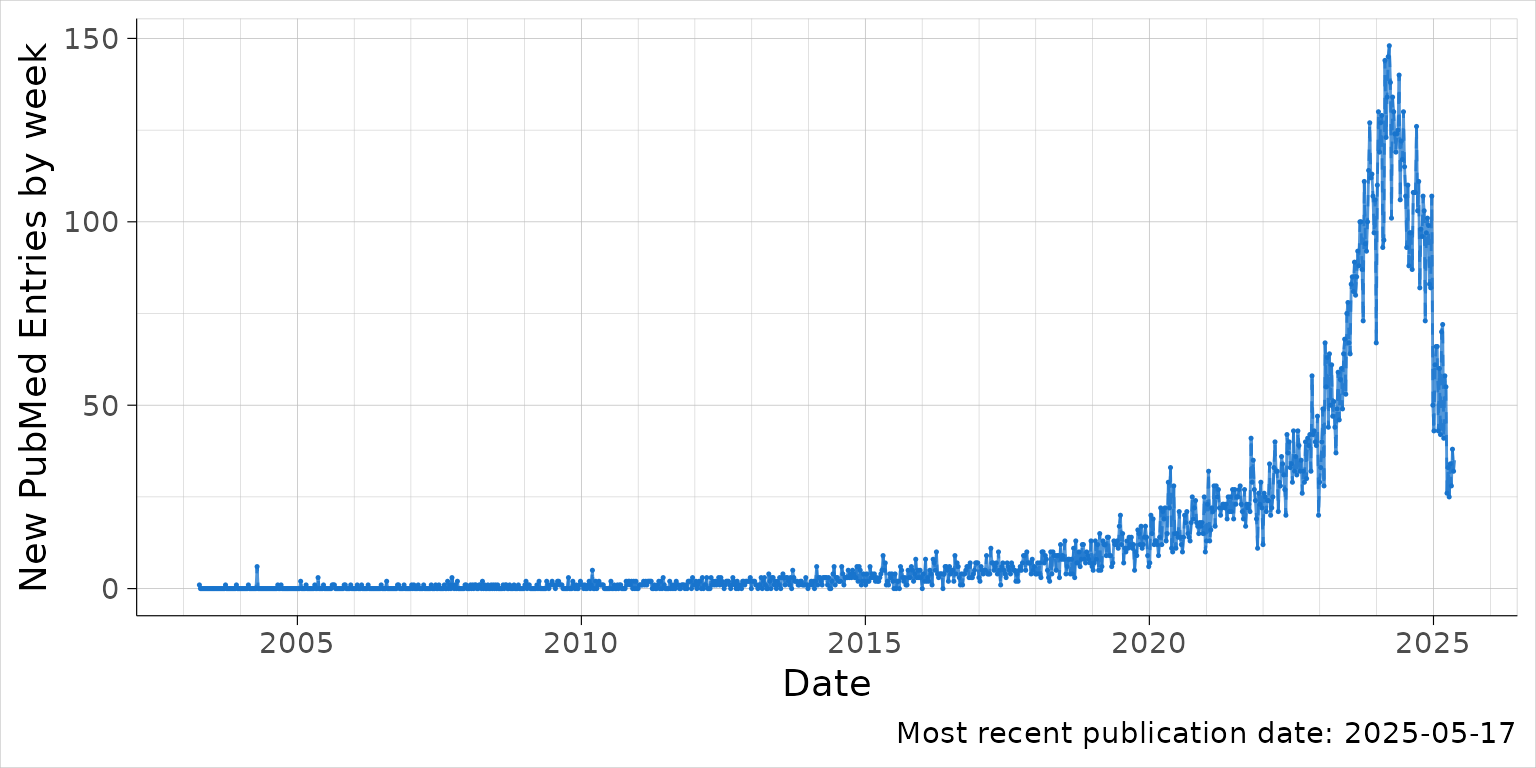
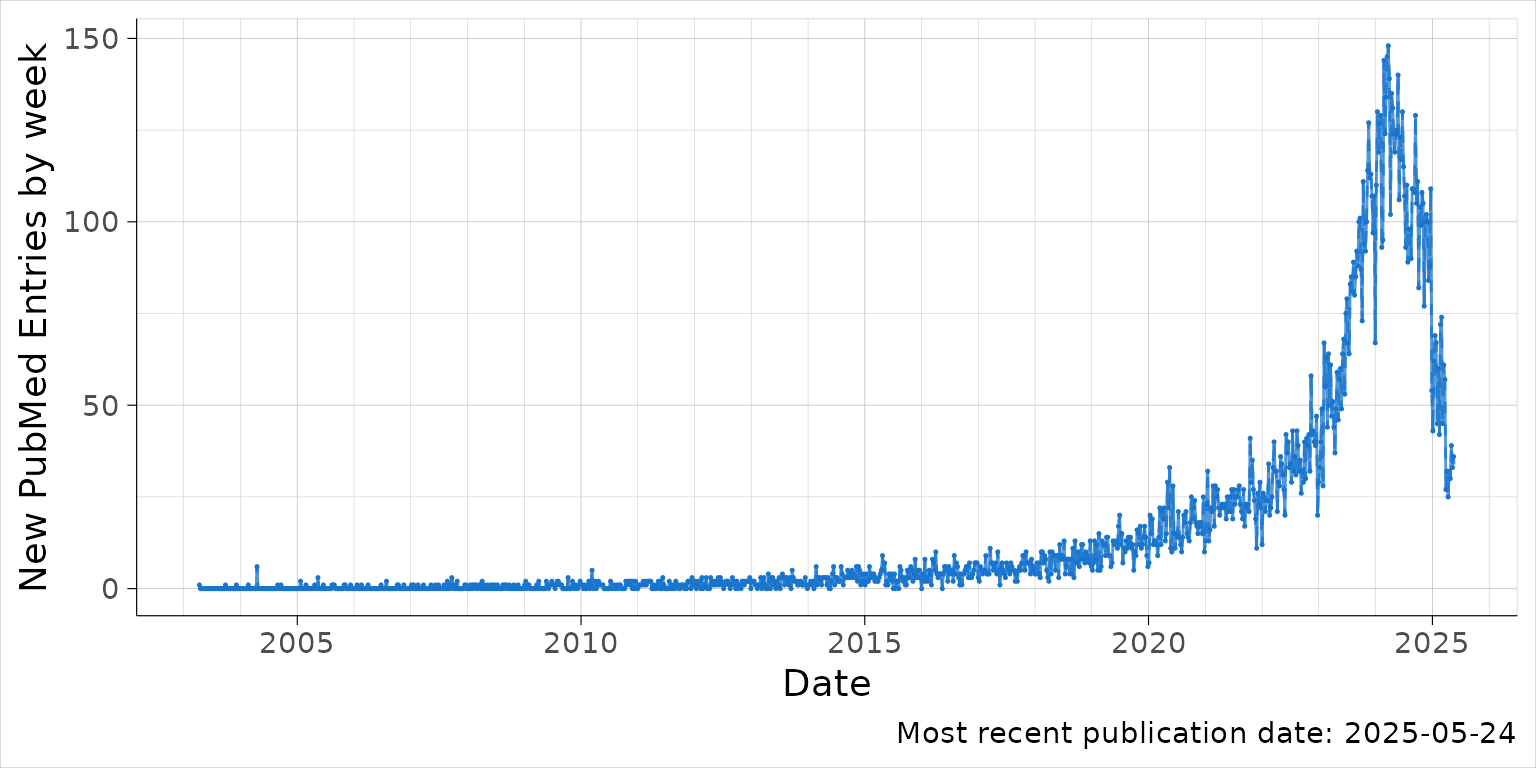
Deploying to gh-pages from @ explodecomputer/PubmedPlot@068eacdf5acdc66ea1c8a3d5640505ac4a8cb4ee 🚀

diff --git a/articles/mr.html b/articles/mr.html
@@ -183,7 +183,7 @@
 <span><span class="co">#&gt; Fetching records 2501 to 2979 </span></span>
 <span><span class="co">#&gt; Searching for year: 2024 </span></span>
 <span><span class="co">#&gt; Search term: "Mendelian randomisation" [tiab] OR "Mendelian randomization" [tiab] AND ("2024/01/01"[dp] : "2024/12/31"[dp]) </span></span>
-<span><span class="co">#&gt; Found 6436 articles matching the search term.</span></span>
+<span><span class="co">#&gt; Found 6435 articles matching the search term.</span></span>
 <span><span class="co">#&gt; Fetching records 1 to 500 </span></span>
 <span><span class="co">#&gt; Fetching records 501 to 1000 </span></span>
 <span><span class="co">#&gt; Fetching records 1001 to 1500 </span></span>
@@ -196,16 +196,16 @@
 <span><span class="co">#&gt; Fetching records 4501 to 5000 </span></span>
 <span><span class="co">#&gt; Fetching records 5001 to 5500 </span></span>
 <span><span class="co">#&gt; Fetching records 5501 to 6000 </span></span>
-<span><span class="co">#&gt; Fetching records 6001 to 6436 </span></span>
+<span><span class="co">#&gt; Fetching records 6001 to 6435 </span></span>
 <span><span class="co">#&gt; Searching for year: 2025 </span></span>
 <span><span class="co">#&gt; Search term: "Mendelian randomisation" [tiab] OR "Mendelian randomization" [tiab] AND ("2025/01/01"[dp] : "2025/12/31"[dp]) </span></span>
-<span><span class="co">#&gt; Found 2865 articles matching the search term.</span></span>
+<span><span class="co">#&gt; Found 2984 articles matching the search term.</span></span>
 <span><span class="co">#&gt; Fetching records 1 to 500 </span></span>
 <span><span class="co">#&gt; Fetching records 501 to 1000 </span></span>
 <span><span class="co">#&gt; Fetching records 1001 to 1500 </span></span>
 <span><span class="co">#&gt; Fetching records 1501 to 2000 </span></span>
 <span><span class="co">#&gt; Fetching records 2001 to 2500 </span></span>
-<span><span class="co">#&gt; Fetching records 2501 to 2865</span></span>
+<span><span class="co">#&gt; Fetching records 2501 to 2984</span></span>
 <span><span class="co"># write_json(a, "pubmed_abstracts.json", pretty=TRUE)</span></span>
 <span><span class="va">b</span> <span class="op">&lt;-</span> <span class="fu"><a href="../reference/group_by_time_interval.html">group_by_time_interval</a></span><span class="op">(</span><span class="va">a</span><span class="op">)</span></span>
 <span><span class="va">p</span> <span class="op">&lt;-</span> <span class="fu"><a href="../reference/plot_time_interval.html">plot_time_interval</a></span><span class="op">(</span><span class="va">b</span><span class="op">)</span></span></code></pre></div>
@@ -222,7 +222,7 @@
 </div>
 
 <div class="pkgdown-footer-right">
-  <p>Site built with <a href="https://pkgdown.r-lib.org/" class="external-link">pkgdown</a> 2.1.2.</p>
+  <p>Site built with <a href="https://pkgdown.r-lib.org/" class="external-link">pkgdown</a> 2.1.3.</p>
 </div>
 
     </footer>

diff --git a/authors.html b/authors.html
@@ -69,7 +69,7 @@ R package version 0.0.0.9000, <a href="https://explodecomputer.github.io/PubmedP
 </div>
 
 <div class="pkgdown-footer-right">
-  <p>Site built with <a href="https://pkgdown.r-lib.org/" class="external-link">pkgdown</a> 2.1.2.</p>
+  <p>Site built with <a href="https://pkgdown.r-lib.org/" class="external-link">pkgdown</a> 2.1.3.</p>
 </div>
 
     </footer></div>

diff --git a/reference/plot_time_interval.html b/reference/plot_time_interval.html
@@ -74,7 +74,7 @@ It uses ggplot2 to create a line plot of the number of publications over time.</
 </div>
 
 <div class="pkgdown-footer-right">
-  <p>Site built with <a href="https://pkgdown.r-lib.org/" class="external-link">pkgdown</a> 2.1.2.</p>
+  <p>Site built with <a href="https://pkgdown.r-lib.org/" class="external-link">pkgdown</a> 2.1.3.</p>
 </div>
 
     </footer></div>

diff --git a/reference/search_term_by_year.html b/reference/search_term_by_year.html
@@ -74,7 +74,7 @@ It splits the search into years to avoid hitting the NCBI server limits.</p>
 </div>
 
 <div class="pkgdown-footer-right">
-  <p>Site built with <a href="https://pkgdown.r-lib.org/" class="external-link">pkgdown</a> 2.1.2.</p>
+  <p>Site built with <a href="https://pkgdown.r-lib.org/" class="external-link">pkgdown</a> 2.1.3.</p>
 </div>
 
     </footer></div>

diff --git a/404.html b/404.html
@@ -66,7 +66,7 @@ Content not found. Please use links in the navbar.
 </div>
 
 <div class="pkgdown-footer-right">
-  <p>Site built with <a href="https://pkgdown.r-lib.org/" class="external-link">pkgdown</a> 2.1.2.</p>
+  <p>Site built with <a href="https://pkgdown.r-lib.org/" class="external-link">pkgdown</a> 2.1.3.</p>
 </div>
 
     </footer>

diff --git a/LICENSE-text.html b/LICENSE-text.html
@@ -47,7 +47,7 @@ COPYRIGHT HOLDER: Gibran Hemani
 </div>
 
 <div class="pkgdown-footer-right">
-  <p>Site built with <a href="https://pkgdown.r-lib.org/" class="external-link">pkgdown</a> 2.1.2.</p>
+  <p>Site built with <a href="https://pkgdown.r-lib.org/" class="external-link">pkgdown</a> 2.1.3.</p>
 </div>
 
     </footer></div>

diff --git a/LICENSE.html b/LICENSE.html
@@ -51,7 +51,7 @@
 </div>
 
 <div class="pkgdown-footer-right">
-  <p>Site built with <a href="https://pkgdown.r-lib.org/" class="external-link">pkgdown</a> 2.1.2.</p>
+  <p>Site built with <a href="https://pkgdown.r-lib.org/" class="external-link">pkgdown</a> 2.1.3.</p>
 </div>
 
     </footer></div>

diff --git a/articles/index.html b/articles/index.html
@@ -51,7 +51,7 @@
 </div>
 
 <div class="pkgdown-footer-right">
-  <p>Site built with <a href="https://pkgdown.r-lib.org/" class="external-link">pkgdown</a> 2.1.2.</p>
+  <p>Site built with <a href="https://pkgdown.r-lib.org/" class="external-link">pkgdown</a> 2.1.3.</p>
 </div>
 
     </footer></div>

diff --git a/reference/group_by_time_interval.html b/reference/group_by_time_interval.html
@@ -67,7 +67,7 @@
 </div>
 
 <div class="pkgdown-footer-right">
-  <p>Site built with <a href="https://pkgdown.r-lib.org/" class="external-link">pkgdown</a> 2.1.2.</p>
+  <p>Site built with <a href="https://pkgdown.r-lib.org/" class="external-link">pkgdown</a> 2.1.3.</p>
 </div>
 
     </footer></div>

diff --git a/reference/index.html b/reference/index.html
@@ -78,7 +78,7 @@
 </div>
 
 <div class="pkgdown-footer-right">
-  <p>Site built with <a href="https://pkgdown.r-lib.org/" class="external-link">pkgdown</a> 2.1.2.</p>
+  <p>Site built with <a href="https://pkgdown.r-lib.org/" class="external-link">pkgdown</a> 2.1.3.</p>
 </div>
 
     </footer></div>

diff --git a/reference/pipe.html b/reference/pipe.html
@@ -71,7 +71,7 @@
 </div>
 
 <div class="pkgdown-footer-right">
-  <p>Site built with <a href="https://pkgdown.r-lib.org/" class="external-link">pkgdown</a> 2.1.2.</p>
+  <p>Site built with <a href="https://pkgdown.r-lib.org/" class="external-link">pkgdown</a> 2.1.3.</p>
 </div>
 
     </footer></div>

diff --git a/reference/search_term.html b/reference/search_term.html
@@ -67,7 +67,7 @@
 </div>
 
 <div class="pkgdown-footer-right">
-  <p>Site built with <a href="https://pkgdown.r-lib.org/" class="external-link">pkgdown</a> 2.1.2.</p>
+  <p>Site built with <a href="https://pkgdown.r-lib.org/" class="external-link">pkgdown</a> 2.1.3.</p>
 </div>
 
     </footer></div>
